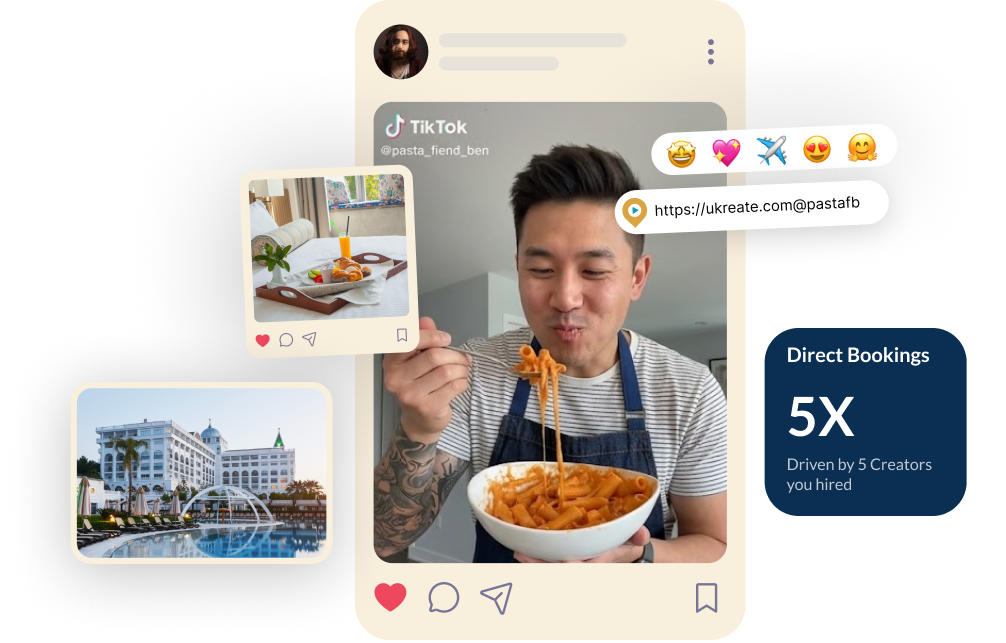
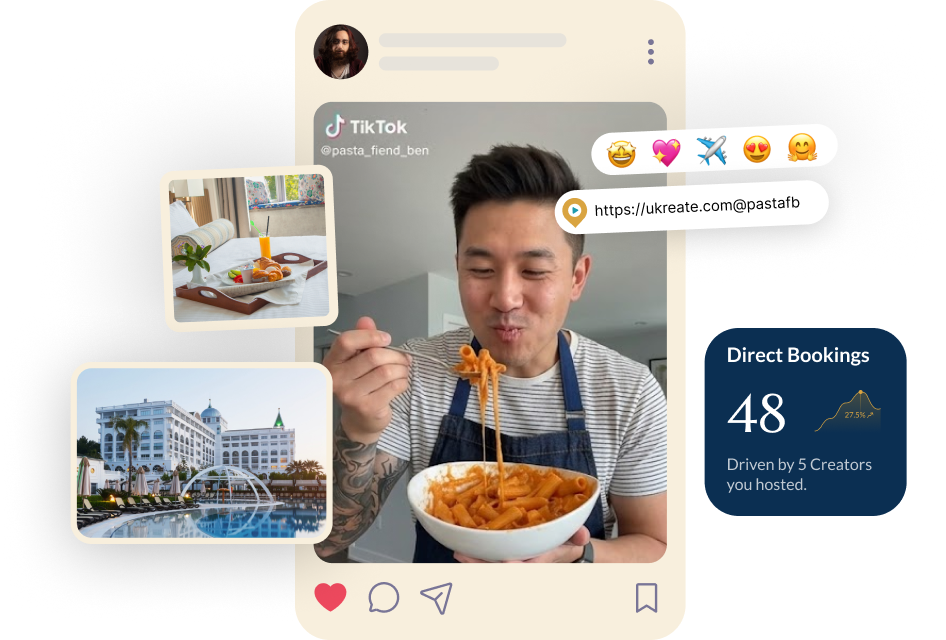
Creator gate: the two questions the original asked and this did not
Audited the in-app creator gate against /creator/start/ rather than fixing one
report at a time. The original asks six things; the gate asked four, and the two
it dropped were both real.

MARKETS YOU COVER. The original calls this the question that decides matches:
"Hotels match on this before anything else." Without it a creator's fit score was
computed against no markets at all. Restored with the picker it has always used,
extracted to ukchips.js: 1,469 markets ranked on where the match sits in the name
before how big the place is, so typing "lagos" puts Lagos first rather than a
village that merely contains the letters. Nothing lists until you type, because
fifteen hundred entries are a wall to read. The answer reaches me.dests, which is
what the matcher scores a stay's city against.

WHAT BRINGS YOU HERE. The hotel gate has had this since it was built. The
creator's was dropped, so one side was asked what it came for and the other was
not. Same three answers as the original.

Not restored, and deliberately: the original's closing "These hotels want what you
make" screen. The gate opens over the live marketplace, so that payoff is the app
itself the moment the modal closes.

One bug this surfaced: the creator gate did not restore focus after a repaint.
Every keystroke in the market search repaints, because the ranked list under it IS
the response to the keystroke, so the field was replaced mid-word and only the
[…]

diff --git a/assets/js/ukonboard.js b/assets/js/ukonboard.js
@@ -54,7 +54,9 @@ window.UKONBOARD = (function () {
        platforms, this was left describing the old questions — so an established
        account came up with the gate in front of it, having answered everything
        the gate no longer asked. */
-    creator: { shoots:['Wellness & spa','Luxury & design'],
+    creator: { intent:'pitch',
+               dests:['c-pt-lisbon','c-es-barcelona'],
+               shoots:['Wellness & spa','Luxury & design'],
                formats:['Reels','Photos'],
                plats:[{ k:'ig', handle:'amaratravels', f:12400 },
                       { k:'tt', handle:'amaratravels', f:8600 }] }
@@ -97,14 +99,29 @@ window.UKONBOARD = (function () {
          platform — nothing shown here turns out to have been staged. */
       render: function () {
         return ask('Welcome to Ukreate',
-          'Hotels trade nights they would rather fill for content. You shoot the ' +
-          'property, they host your stay, and everything you make stays yours to post. ' +
-          'Two minutes and they can start finding you.', '', { mark: true });
+          'Hotels trade unsold nights for content. You shoot, they host, and everything ' +
+          'you make stays yours to post. Two minutes and they can find you.',
+          '', { mark: true });
       },
       art: 'creator',
       bare: true,          /* not a question: no rail, and it does not count */
       done: function () { return true; },
       cta: 'Get started'
+    },
+    {
+      k: 'intent',
+      /* The original asked this first and the gate dropped it, so the hotel was
+         asked what it came for and the creator was not. Same three answers. */
+      render: function (f) {
+        return ask('What are you hoping to do here?',
+          'There is no wrong answer. It only decides what we show you first.',
+          intents(f.intent, [
+            { k:'pitch',   t:'Find hotels to pitch',     s:'Jump straight into real matches.' },
+            { k:'profile', t:'Build my profile',         s:'Get my platforms and work set up.' },
+            { k:'look',    t:'See how this works first', s:'Look around before connecting anything.' }
+          ]));
+      },
+      done: function (f) { return !!f.intent; }
     },
     {
       k: 'shoots',
@@ -140,6 +157,30 @@ window.UKONBOARD = (function () {
           picks(((window.UKVOCAB || {}).FORMATS || []), picked, 'formats', CAP));
       },
       done: function (f) { return (f.formats || []).length > 0; }
+    },
+    {
+      k: 'dests',
+      /* MISSING UNTIL NOW, and it is the question the original called the one
+         that decides matches: "Hotels match on this before anything else."
+         Without it a creator's fit score was computed against no markets at all.
+         THE picker from /creator/start/, against the same D.DESTS. */
+      render: function (f) {
+        var C = window.UKCHIPS, D = window.UKC;
+        var picked = f.dests || [];
+        if (!C || !D || !D.DESTS) return ask('Where do you travel?', '', '');
+        return ask('Tell us where you’re headed.',
+          'The places you already travel, and the ones you would go tomorrow. ' +
+          'Hotels match on this before anything else.',
+          '<p class="ukField_l">Markets you cover' + C.counter(picked.length) + '</p>' +
+          C.html({
+            key:'dests', qkey:'destQ', q: DESTQ.q, open: DESTQ.open,
+            chosen: picked, options: D.DESTS,
+            find: function (k) { return D.destOf(k); },
+            ph:'Try Miami, Bali, Lagos…', label:'Markets you cover',
+            idle: false          /* fifteen hundred markets cannot be browsed */
+          }));
+      },
+      done: function (f) { return (f.dests || []).length > 0; }
     },
     {
       k: 'plats',
@@ -278,7 +319,7 @@ window.UKONBOARD = (function () {
       return '<div class="ukObArt is-empty" data-obart>' +
         '<span class="ukObArt_ph" aria-hidden="true">Image</span></div>';
     }
-    return '<div class="ukObArt" data-obart>' +
+    return '<div class="ukObArt ukObArt--' + esc(side) + '" data-obart>' +
       '<img class="ukObArt_i" src="/assets/img/onboard-welcome-' + side + '.png" alt="">' +
     '</div>';
   }
@@ -300,6 +341,7 @@ window.UKONBOARD = (function () {
   /* How you found the place is view state, not an answer, so it lives here and
      not in the saved record. */
   var CITYQ = { q: '', open: false };
+  var DESTQ = { q: '', open: false };
   function liveState(f) {
     if (!LIVE.plats) LIVE.plats = (f.plats || []).slice();
     return LIVE;
@@ -440,6 +482,11 @@ window.UKONBOARD = (function () {
         if (me) { me.cats = f.shoots.slice(); me.type = f.shoots[0]; }
       }
       if (f.formats && f.formats.length && me) me.makes = f.formats.slice();
+      /* what the matcher scores a stay's city against */
+      if (f.dests && f.dests.length) {
+        if (me) me.dests = f.dests.slice();
+        if (M)  M.dests = f.dests.slice();
+      }
       /* Connected platforms give the real handle and the real follower count, so
          the band is read off them rather than asked for. */
       var P = window.UKPLATCONNECT;
@@ -540,6 +587,7 @@ window.UKONBOARD = (function () {
     /* the connector mutates this as its OAuth beats play out */
     live: function () { return liveState(get('creator')); },
     cityq: function () { return CITYQ; },
+    destq: function () { return DESTQ; },
     shots: function () { return SHOTS; },
     flushShots: flushShots,
     flush: flushPlats

diff --git a/assets/js/ukchips.js b/assets/js/ukchips.js
@@ -1,0 +1,105 @@
+/* Ukreate - picking several things from a long list. The chip picker.
+
+   THIS IS THE ONE FROM /creator/start/. It is what the original creator
+   onboarding used for "Markets you cover" and for "what do you shoot": a field
+   you type into, a ranked dropdown, and the answers sitting above it as chips
+   you can remove.
+
+   Extracted so the in-app gate can ask the same questions rather than a
+   lookalike. The state object is passed in, the way ukplatconnect.js,
+   ukplace.js and ukshots.js take theirs, because /creator/start/ keeps its
+   answers in `f` and the gate keeps them in localStorage.
+
+   Every class name below is one ukcreator.css already defines. Nothing here is
+   new markup.
+
+   WHY THE RANKING IS NOT PLAIN SUBSTRING ORDER. There are fifteen hundred
+   markets. Typing "lagos" has to put Lagos above a village whose name merely
+   contains those letters, so matches are scored on WHERE the match sits in the
+   name, then tie-broken on how big the place is. The obvious answer is first
+   every time.
+
+   WHY MARKETS SHOW NOTHING UNTIL YOU TYPE. Fifteen hundred entries cannot be
+   browsed; a list before anything is typed is a wall to read, not a help, so the
+   placeholder carries the examples instead. A short list like what you shoot
+   does lay its options out, because there they can all be seen. That is the
+   `idle` flag. */
+window.UKCHIPS = (function () {
+  function esc(s) {
+    return String(s == null ? '' : s).replace(/[&<>"]/g, function (c) {
+      return ({ '&':'&amp;', '<':'&lt;', '>':'&gt;', '"':'&quot;' })[c];
+    });
+  }
+  var CAP = 5;               /* five is a claim; fifty is noise */
+
+  function rank(pool, q) {
+    return pool.filter(function (x) {
+      return x.n.toLowerCase().indexOf(q) > -1 || (x.sub || '').toLowerCase().indexOf(q) > -1;
+    }).map(function (x) {
+      var n = x.n.toLowerCase(), at = n.indexOf(q);
+      var r = at === 0 ? 300
+            : at > 0 && n.charAt(at - 1) === ' ' ? 200
+            : at > 0 ? 120
+            : 40;                                   /* matched on the country instead */
+      if (n === q) r += 200;
+      return { x: x, r: r + Math.min(90, (x.p || 0) / 260) };
+    }).sort(function (a, b) { return b.r - a.r; })
+      .slice(0, 40).map(function (h) { return h.x; });
+  }
+
+  /* o = { key, qkey, q, chosen, options, find, ph, label, idle, open, cap } */
+  function html(o) {
+    var cap = o.cap || CAP;
+    var full = o.chosen.length >= cap;
+    var q = (o.q || '').toLowerCase().trim();
+    var open = !!o.open && !full;
+
+    var pool = o.options.filter(function (x) { return o.chosen.indexOf(x.k) < 0; });
+    var hits = !q
+      ? (o.idle === false ? null : pool.slice(0, o.maxIdle || 40))
+      : rank(pool, q);
+
+    var list = hits === null
+      ? ''
+      : hits.length
+      ? '<ul class="ukPickr_list" id="' + esc(o.key) + 'Drop" role="listbox">' +
+        hits.map(function (x) {
+          return '<li><button class="ukPickr_o" type="button" role="option" ' +
+            'aria-selected="false" data-chip="' + esc(o.key) + '" data-val="' + esc(x.k) + '">' +
+            '<span class="ukPickr_on">' + esc(x.n) + '</span>' +
+            (x.sub ? '<span class="ukPickr_os">' + esc(x.sub) + '</span>' : '') +
+            '</button></li>';
+        }).join('') + '</ul>'
+      : '<p class="ukPickr_none">Nothing matches “' + esc(o.q) + '”.</p>';
+
+    return '<div class="ukPickr' + (open ? ' is-open' : '') + '" data-chips="' + esc(o.key) + '">' +
+      (o.chosen.length
+        ? '<ul class="ukPickr_chips">' + o.chosen.map(function (k) {
+            var x = o.find(k);
+            return '<li class="ukChip">' + esc(x ? x.n : k) +
+              '<button class="ukChip_x" type="button" data-unchip="' + esc(o.key) + '" data-val="' + esc(k) + '" ' +
+              'aria-label="Remove ' + esc(x ? x.n : k) + '">&times;</button></li>';
+          }).join('') + '</ul>'
+        : '') +
+
+      (full
+        ? '<p class="ukPickr_full">That’s your five. Remove one to swap it out.</p>'
+        : '<div class="ukPickr_wrap">' +
+            '<input class="ukPickr_q" id="' + esc(o.key) + 'Q" data-k="' + esc(o.qkey) + '" ' +
+            'data-opens="' + esc(o.key) + '" ' +
+            'value="' + esc(o.q || '') + '" placeholder="' + esc(o.ph) + '" ' +
+            'role="combobox" aria-expanded="' + open + '" aria-controls="' + esc(o.key) + 'Drop" ' +
+            'aria-autocomplete="list" aria-label="' + esc(o.label) + '" autocomplete="off">' +
+            (o.idle === false ? '' : '<span class="ukPickr_caret" aria-hidden="true"></span>') +
+            (open && list ? '<div class="ukPickr_drop">' + list + '</div>' : '') +
+          '</div>') +
+    '</div>';
+  }
+
+  /* The count that sits beside the label: "2 of 5". */
+  function counter(n, cap) {
+    return '<span class="ukCount2">' + n + ' of ' + (cap || CAP) + '</span>';
+  }
+
+  return { html: html, counter: counter, rank: rank, CAP: CAP };
+})();

diff --git a/assets/js/ukcapp.js b/assets/js/ukcapp.js
@@ -335,8 +335,17 @@
     document.body.classList.add('is-onboarding');
     host.innerHTML = window.UKONBOARD.modalHtml('creator', obAt);
     if (window.UKSTAY && window.UKSTAY.clamp) window.UKSTAY.clamp(host);
-    var first = host.querySelector('input');
-    if (first) first.focus();
+    /* Focus back into the field, caret at the end. Every keystroke in the market
+       search repaints, because the ranked list under it IS the response to the
+       keystroke, and without this the input is replaced mid-word: the first
+       letter registers and the rest go nowhere. Same reason the hotel gate does
+       it for the city field. Hidden inputs are skipped, or the file picker on a
+       photographs step would steal it. */
+    var first = host.querySelector('input:not([type=file]):not([hidden])');
+    if (first) {
+      first.focus();
+      try { first.setSelectionRange(first.value.length, first.value.length); } catch (err) {}
+    }
   }
 
   document.addEventListener('click', function (e) {
@@ -389,6 +398,30 @@
       window.UKONBOARD.flush('creator');
       return paintOnboard();
     }
+    /* the chip picker from /creator/start/: pick, remove, and close on an
+       outside click, the same three behaviours it has always had */
+    if ((el = e.target.closest('[data-chip]'))) {
+      var dq = window.UKONBOARD.destq();
+      var cur = (window.UKONBOARD.get('creator').dests || []).slice();
+      var v = el.dataset.val;
+      if (cur.indexOf(v) < 0 && cur.length < ((window.UKCHIPS && window.UKCHIPS.CAP) || 5)) cur.push(v);
+      window.UKONBOARD.set('creator', { dests: cur });
+      dq.q = ''; dq.open = false;
+      window.UKONBOARD.apply('creator');
+      return paintOnboard();
+    }
+    if ((el = e.target.closest('[data-unchip]'))) {
+      var cur2 = (window.UKONBOARD.get('creator').dests || []).filter(function (k) {
+        return k !== el.dataset.val;
+      });
+      window.UKONBOARD.set('creator', { dests: cur2 });
+      window.UKONBOARD.apply('creator');
+      return paintOnboard();
+    }
+    if (window.UKONBOARD.destq().open && !e.target.closest('.ukPickr')) {
+      var dq2 = window.UKONBOARD.destq(); dq2.open = false; dq2.q = '';
+      paintOnboard();
+    }
     if (e.target.closest('[data-ob-back]')) { obAt = Math.max(0, obAt - 1); return paintOnboard(); }
     if (e.target.closest('[data-ob-next]')) {
       var list = window.UKONBOARD.steps('creator');
@@ -410,6 +443,14 @@
   });
 
   document.addEventListener('input', function (e) {
+    /* typing in the market search repaints, because the ranked list under it IS
+       the response to the keystroke */
+    var mq = e.target.closest && e.target.closest('.ukPickr_q');
+    if (mq && window.UKONBOARD) {
+      var dq = window.UKONBOARD.destq();
+      dq.q = mq.value; dq.open = true;
+      return paintOnboard();
+    }
     var el = e.target.closest && e.target.closest('[data-ob-field]');
     if (!el || !window.UKONBOARD) return;
     var patch = {}; patch[el.dataset.obField] = el.value;

diff --git a/creator/index.html b/creator/index.html
@@ -10,7 +10,7 @@
 <link rel="preconnect" href="https://fonts.googleapis.com">
 <link rel="preconnect" href="https://fonts.gstatic.com" crossorigin>
 <link href="https://fonts.googleapis.com/css2?family=Marcellus&family=Lato:wght@300;400;500;700&display=swap" rel="stylesheet">
-<link rel="stylesheet" href="/assets/css/ukapp.css?v=375">
+<link rel="stylesheet" href="/assets/css/ukapp.css?v=376">
 <link rel="stylesheet" href="/assets/css/ukcreator.css?v=63">
 <link rel="stylesheet" href="/assets/css/ukdash.css?v=27">
 </head>
@@ -106,8 +106,9 @@
 <script src="/assets/js/ukplatconnect.js?v=2" defer></script>
 <script src="/assets/js/ukplace.js?v=1" defer></script>
 <script src="/assets/js/ukshots.js?v=1" defer></script>
+<script src="/assets/js/ukchips.js?v=1" defer></script>
 <script src="/assets/js/ukdemo.js?v=5" defer></script>
-<script src="/assets/js/ukonboard.js?v=21" defer></script>
+<script src="/assets/js/ukonboard.js?v=24" defer></script>
 <script src="/assets/js/ukattrib.js?v=5" defer></script>
 <script src="/assets/js/ukpitchin.js?v=5" defer></script>
 <script src="/assets/js/uknotify.js?v=1" defer></script>
@@ -126,7 +127,7 @@
 <script src="/assets/js/ukcprofile.js?v=22" defer></script>
 <script src="/assets/js/ukchotel.js?v=2" defer></script>
 <script src="/assets/js/ukboards.js?v=12" defer></script>
-<script src="/assets/js/ukcapp.js?v=85" defer></script>
+<script src="/assets/js/ukcapp.js?v=87" defer></script>
 <script src="/assets/js/ukaskbrain.js?v=1" defer></script>
 <script src="/assets/js/ukask.js?v=35" defer></script>
 </body>

diff --git a/assets/css/ukapp.css b/assets/css/ukapp.css
@@ -4870,6 +4870,15 @@ button.ukMoreDot:hover,button.ukMoreDot:focus-visible{background:var(--hover);bo
    its native size. Anything past it is an upscale, which on a cutout with fine
    detail in the phone screens is the first thing that would look soft. */
 .ukObArt_i{max-width:82%;width:auto;height:auto;display:block;margin:auto;grid-area:1/1}
+
+/* ---- per side, because the two illustrations are composed differently ----
+   The hotel's is a plane that fades out at the bottom, so it can run under the
+   button: there is nothing down there to cut. The creator's is a stack of cards
+   with hard edges all the way to the base, and the button sliced straight
+   through them. It sits above the button instead, which needs a little less
+   width to fit between the copy and the nav. */
+.ukObArt--creator{bottom:16%;height:48%}
+.ukObArt--creator .ukObArt_i{max-width:70%}
 /* The placeholder is still a block: with no artwork there is nothing to sit
    behind, and an empty layer would be invisible rather than a stand-in. */
 /* The placeholder occupies the same band, so a side without artwork yet shows

diff --git a/app/index.html b/app/index.html
@@ -10,7 +10,7 @@
 <link rel="preconnect" href="https://fonts.googleapis.com">
 <link rel="preconnect" href="https://fonts.gstatic.com" crossorigin>
 <link href="https://fonts.googleapis.com/css2?family=Marcellus&family=Lato:wght@300;400;500;700&display=swap" rel="stylesheet">
-<link rel="stylesheet" href="/assets/css/ukapp.css?v=375">
+<link rel="stylesheet" href="/assets/css/ukapp.css?v=376">
 <link rel="stylesheet" href="/assets/css/ukdash.css?v=27">
 <link rel="stylesheet" href="/assets/css/ukcalc.css?v=4">
 </head>
@@ -99,7 +99,7 @@
 <script src="/assets/js/ukplace.js?v=1" defer></script>
 <script src="/assets/js/ukshots.js?v=1" defer></script>
 <script src="/assets/js/ukdemo.js?v=5" defer></script>
-<script src="/assets/js/ukonboard.js?v=21" defer></script>
+<script src="/assets/js/ukonboard.js?v=22" defer></script>
 <script src="/assets/js/ukattrib.js?v=5" defer></script>
 <script src="/assets/js/ukpitchin.js?v=5" defer></script>
 <script src="/assets/js/uknotify.js?v=1" defer></script>
